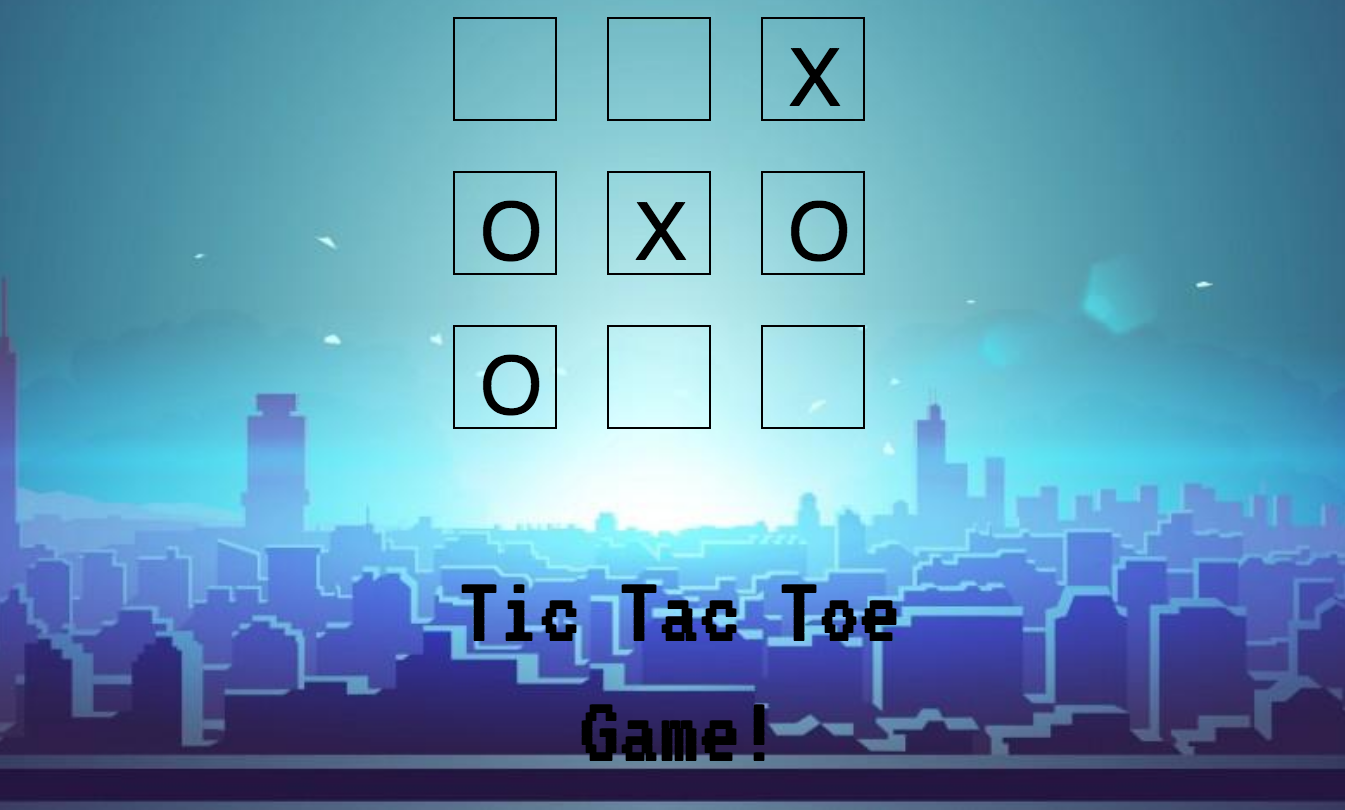
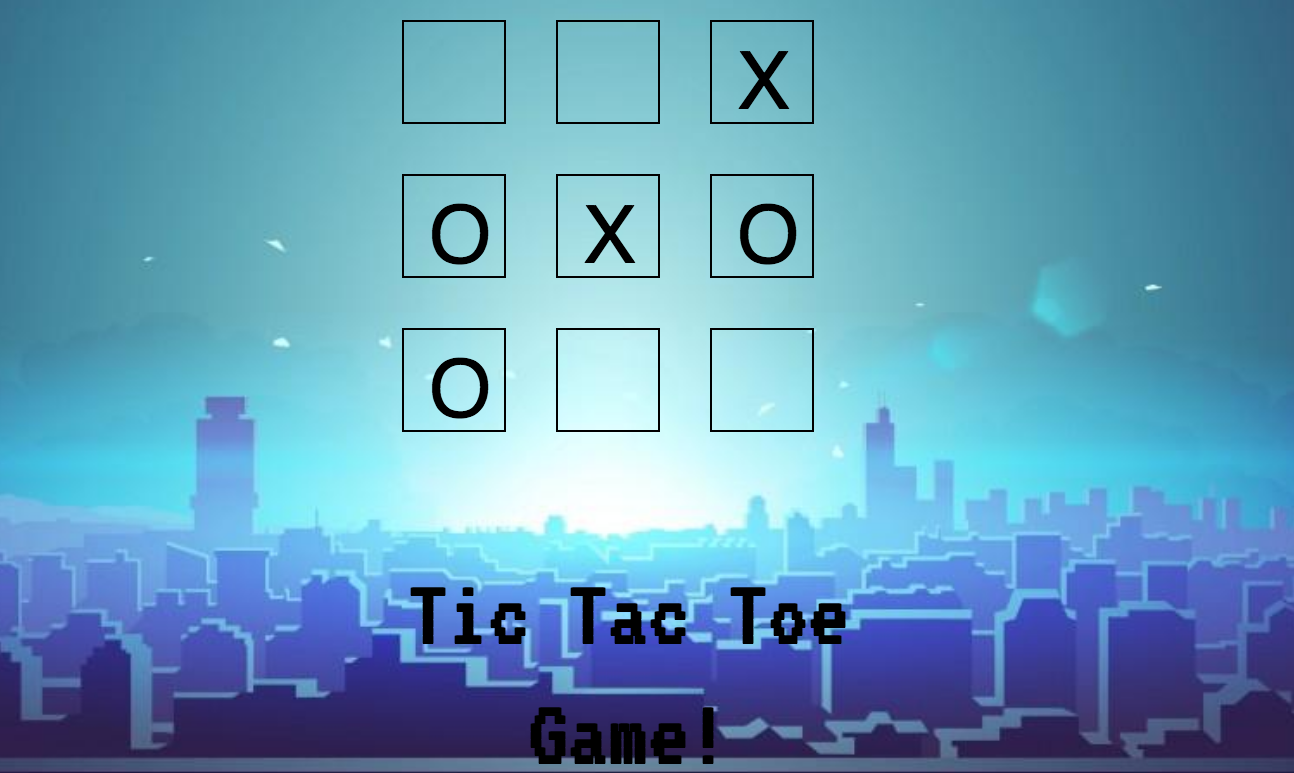
fixed pic to center

diff --git a/index.html b/index.html
@@ -299,7 +299,7 @@
                 </div>
                     <div><a href="https://tictactoe-playgame.herokuapp.com/" target="_blank" alt = "">
                         <div class="overlay"><i class="fa fa-search"></i>
-                        </div><img src="img/tictactoes.png" alt="">
+                        </div><img src="img/tictactoefinal.png" alt="">
                     </a>
                    </div>
                     <div><a href="https://gitlab.com/notch8/hyrax-generic" target="_blank" alt = "">
